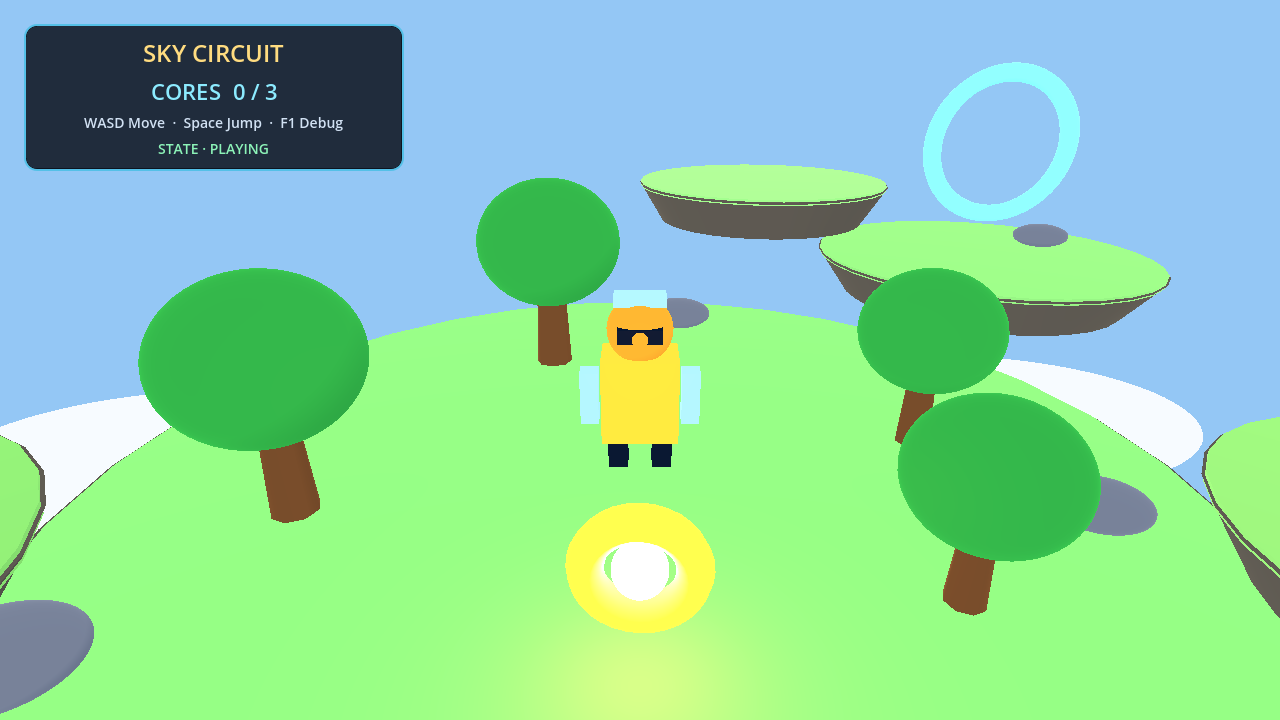
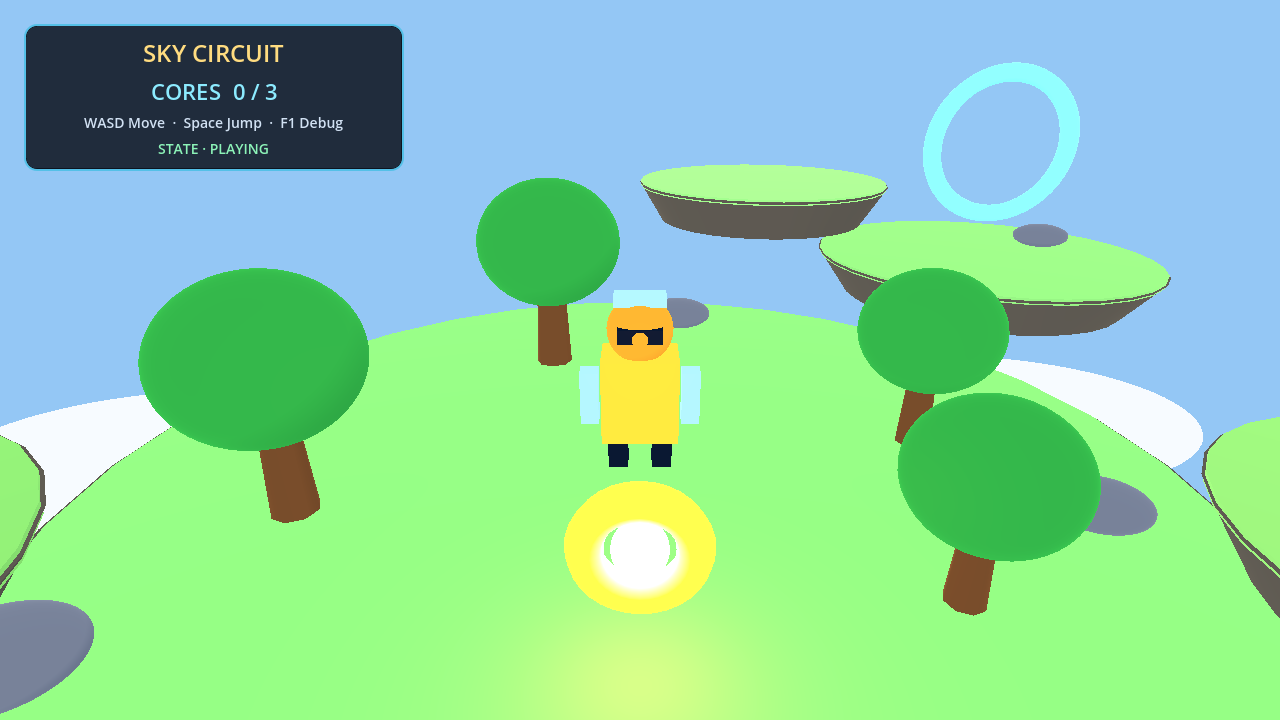
feat(ai-slice): add godot-slice skill and game-feel juice
- project skill: GDD -> smoke -> screenshots -> gda -> feel checklist

- core pop/burst/camera shake/HUD flash; portal burst/pulse/toast; clean win state

Changed region(s): [[0.4375, 0.6722, 0.5625, 0.8861]]

diff --git a/godot-ai-slice/.claude/skills/godot-slice/SKILL.md b/godot-ai-slice/.claude/skills/godot-slice/SKILL.md
@@ -1,0 +1,62 @@
+---
+name: godot-slice
+description: Use when implementing or verifying gameplay, feel, UI, or game state in godot-ai-slice (Godot 4.6). Keeps the smoke test green, applies a small game-feel checklist, and verifies with screenshots and gda.
+---
+
+# Godot Slice
+
+A tiny 3D vertical slice. Treat it as a production starter: small diffs, verified behavior, visible feedback.
+
+## Before coding
+
+1. Read `CLAUDE.md`, `AGENTS.md`, and `docs/GDD.md`.
+2. Restate the acceptance criteria in one or two lines. If they are missing, add them to `docs/GDD.md` first.
+3. Choose the smallest change that satisfies them; do not refactor unrelated code.
+
+## Implementation rules
+
+- Godot 4.6, GL Compatibility, typed GDScript. Match the existing style.
+- Preserve public methods used by tools/tests: `start_game`, `restart_level`, `force_win`, `respawn`, `reset`, `collect`, `trigger`, `set_active`.
+- Never edit `.godot/`. Let Godot import; use `godot --headless --import` if needed.
+- No external assets/audio/fonts without an explicit license note. The slice is primitive geometry on purpose.
+- UI copy is English; docs may be Chinese.
+- Headless `-s` scripts must resolve the autoload by path: `root.get_node_or_null("Game")`.
+
+## Verify (required)
+
+```bash
+godot --headless --path godot-ai-slice -s tools/smoke_slice.gd
+# AI_SLICE_SMOKE_OK
+
+godot --path godot-ai-slice --resolution 1280x720 -s tools/screenshot_slice.gd
+# /tmp/ai_slice_shots/{title,play,win}.png
+```
+
+If `gda` is available (Windows uses the `*_console.exe` binary):
+
+```bash
+gda script validate --json
+gda scene preflight res://scenes/main.tscn --json
+# live: gda daemon start --windowed; gda game tree --json; gda screen capture --json
+```
+
+Do not claim done on smoke alone. Inspect all three screenshots for missing nodes, clipped UI, or invisible feedback.
+
+## Game-feel checklist
+
+For any interaction (collect, jump, portal, UI):
+
+- Feedback starts within ~100 ms of the action.
+- The player can tell what changed without reading a log.
+- One strong cue is better than three competing ones.
+- Existing juice: core pop + gold burst + small camera shake; portal activation burst/pulse + "PORTAL ONLINE" toast + HUD core flash.
+- Do not over-shake or make the HUD unreadable. Keep the title/HUD/win overlays legible.
+- If you add a new effect, make it deterministic enough for screenshots and reset it in `reset()`/`restart_level()`.
+
+## Report
+
+Return:
+
+1. What changed and why (one paragraph).
+2. Exact commands run and their key output (`AI_SLICE_SMOKE_OK`, screenshot paths).
+3. Any remaining visual/design risk, or "none".

diff --git a/godot-ai-slice/README.md b/godot-ai-slice/README.md
@@ -40,6 +40,8 @@ godot --path godot-ai-slice --resolution 1280x720 -s tools/screenshot_slice.gd
 
 完整步骤、gda 安装、Claude Code/Codex 的 MCP 配置、提示词模板见 [`docs/AI_WORKFLOW.md`](docs/AI_WORKFLOW.md)。
 
+项目级 Claude Skill：[`.claude/skills/godot-slice/SKILL.md`](.claude/skills/godot-slice/SKILL.md)。它固化了“读 GDD → 最小改动 → smoke → 截图 → gda → game-feel 检查”的流程；在 `godot-ai-slice` 目录打开 Claude Code 即可使用。
+
 ## 结构
 
 ```text
@@ -56,6 +58,8 @@ godot-ai-slice/
 ├── tools/
 │   ├── smoke_slice.gd         headless 验收
 │   └── screenshot_slice.gd    1280x720 截图
+├── .claude/skills/godot-slice/
+│   └── SKILL.md               项目级 AI 工作流（smoke/截图/gda/game-feel）
 ├── docs/
 │   ├── AI_WORKFLOW.md         Windows + Claude Code/Codex + gda
 │   ├── GDD.md                 切片设计/验收

diff --git a/godot-ai-slice/docs/GDD.md b/godot-ai-slice/docs/GDD.md
@@ -26,6 +26,14 @@ A tiny yellow robot wakes up on broken sky islands. Collect three energy cores t
 - `AI_SLICE_SMOKE_OK`.
 - Title / play / win screenshots render without missing nodes.
 - The slice remains playable without external assets.
+- Collection and portal activation have visible feedback (pop/burst/shake/toast/HUD flash) and reset cleanly.
+
+## Game feel (implemented)
+
+- Core: scale pop, gold burst, small camera shake, HUD core flash.
+- Portal: burst + pulse + "PORTAL ONLINE" toast + shake on activation.
+- Win: portal burst + shake, win overlay; toast clears on state change.
+- No audio (yet); no external assets.
 
 ## Non-goals (this slice)
 

diff --git a/godot-ai-slice/CLAUDE.md b/godot-ai-slice/CLAUDE.md
@@ -12,6 +12,7 @@ godot --path godot-ai-slice --resolution 1280x720 -s tools/screenshot_slice.gd
 
 ## Rules
 
+- Read `.claude/skills/godot-slice/SKILL.md` before gameplay/feel/UI work; it contains the verification and game-feel checklist.
 - **Keep `tools/smoke_slice.gd` green.** Any gameplay/state change must update or preserve it.
 - **Do not edit `.godot/`.** Let Godot import; use `godot --headless --import` if needed.
 - One feature per change. For visual changes, run the screenshot tool and inspect all three shots.

diff --git a/godot-ai-slice/AGENTS.md b/godot-ai-slice/AGENTS.md
@@ -1,6 +1,6 @@
 # Codex / Agent Instructions — AI Slice
 
-Read `CLAUDE.md` first; the rules are identical:
+Read `CLAUDE.md` and `.claude/skills/godot-slice/SKILL.md` first; the rules are identical:
 
 - Godot 4.6, GL Compatibility, typed GDScript.
 - Keep `tools/smoke_slice.gd` green.
